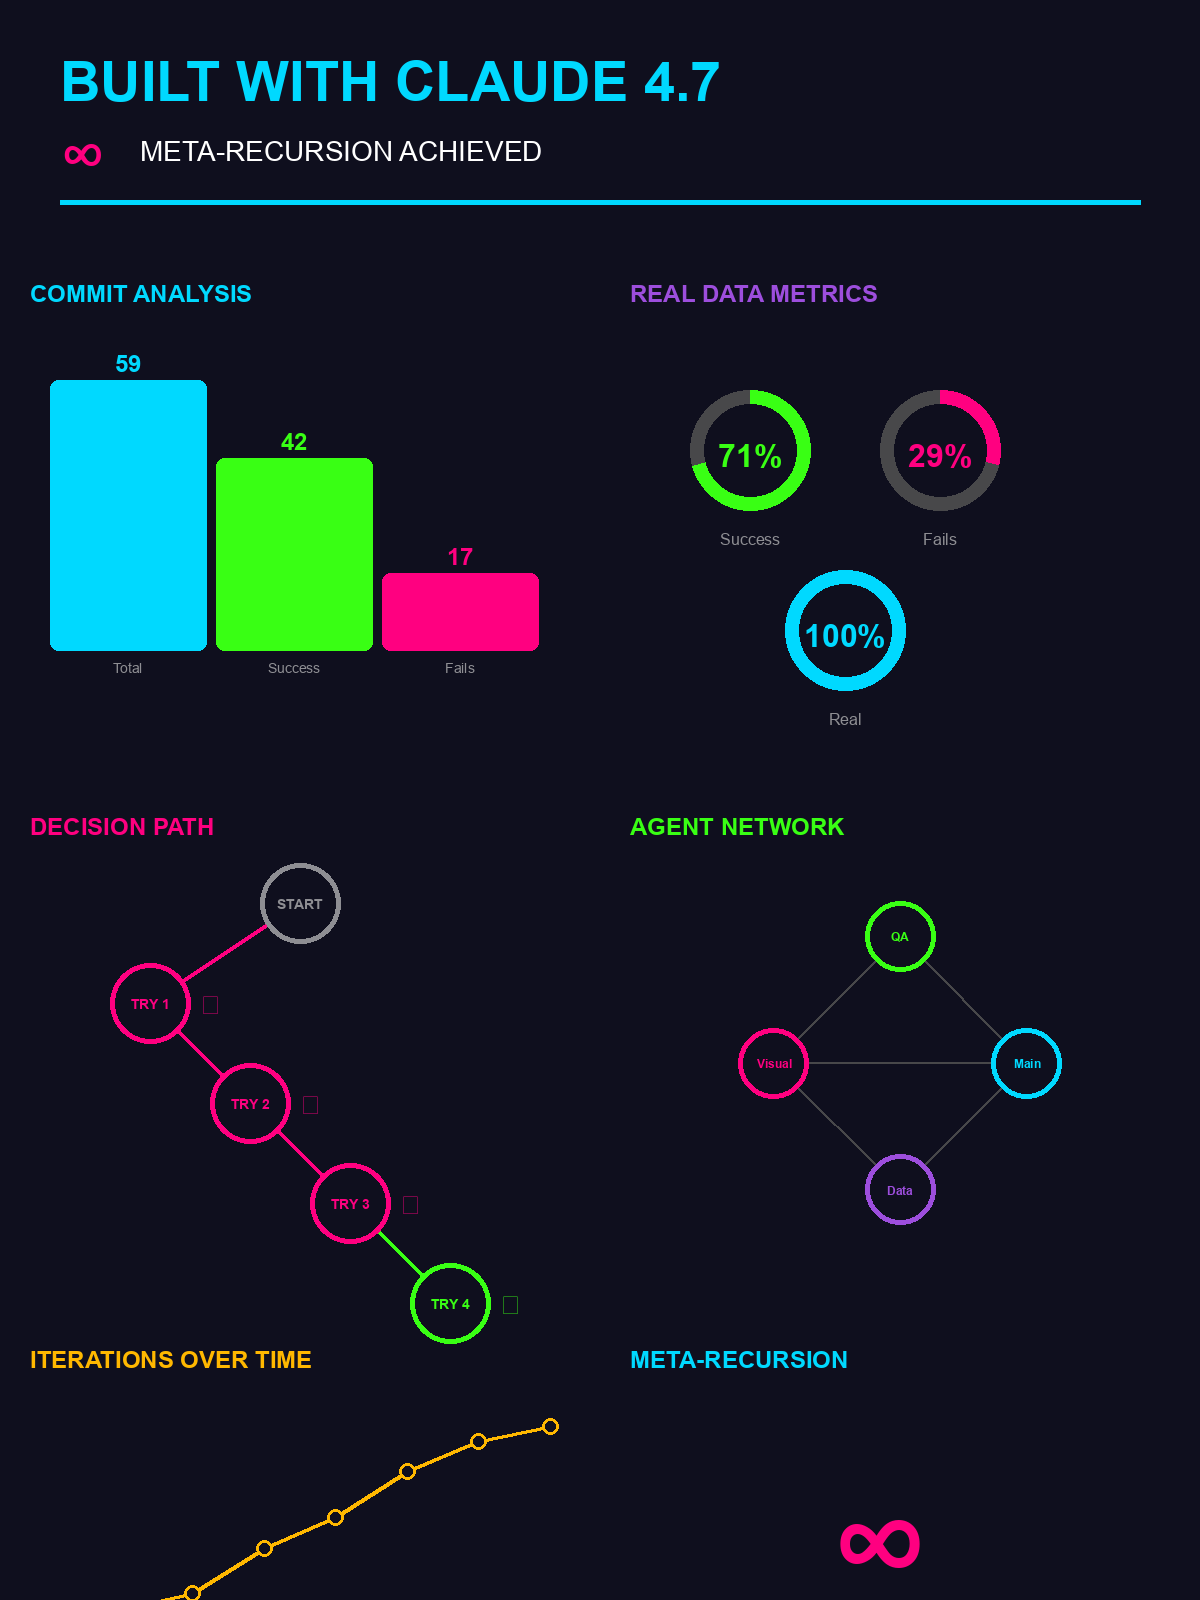
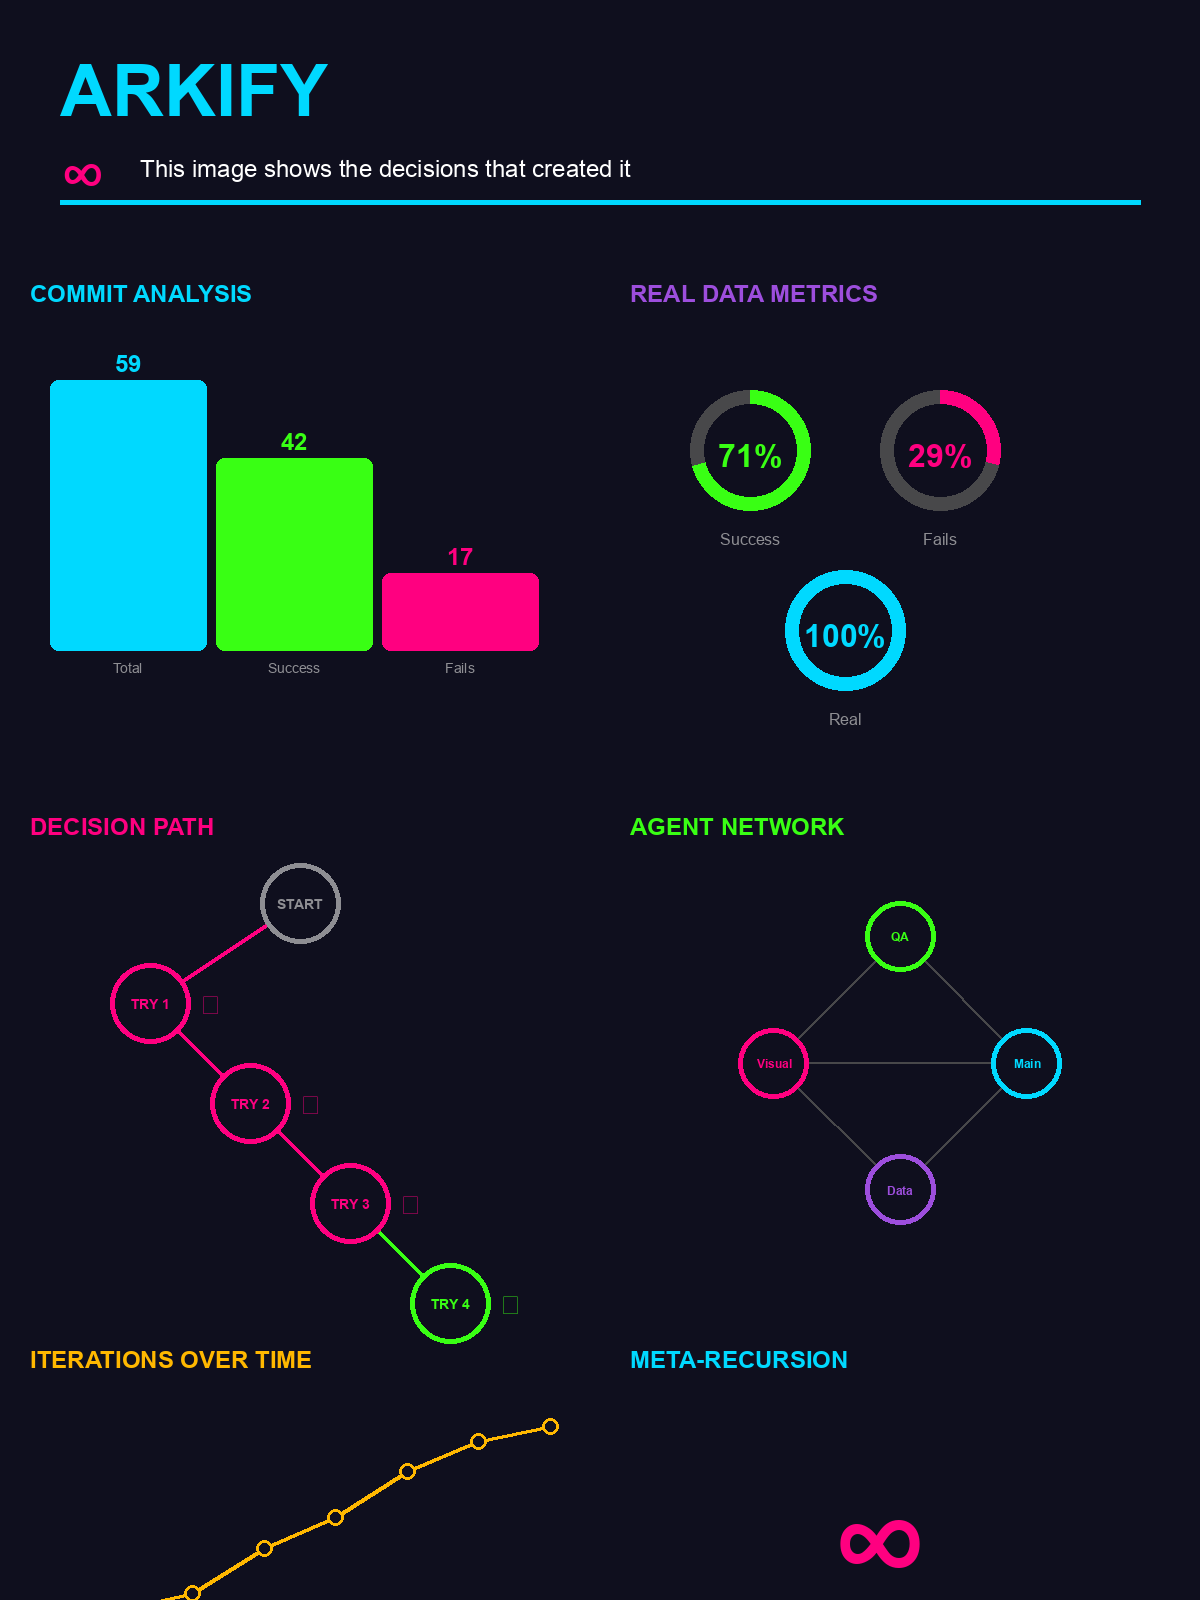
refactor: Remove model name, focus on meta-recursion
Title: ARKIFY (not 'Built with Claude 4.7')
Tagline: 'This image shows the decisions that created it'

Pure meta-recursion focus.

Changed region(s): [[0.0308, 0.0312, 0.6167, 0.125]]

diff --git a/landing/index.html b/landing/index.html
@@ -3,9 +3,9 @@
 <head>
     <meta charset="UTF-8">
     <meta name="viewport" content="width=device-width, initial-scale=1.0">
-    <meta name="description" content="Arkify - Built with Claude 4.7. Data visualization infographic.">
+    <meta name="description" content="Arkify - This image shows the decisions that created it. Meta-recursive data visualization.">
     <meta property="og:image" content="https://arkify.app/arkify-v4.png">
-    <title>Arkify - Built with Claude 4.7</title>
+    <title>Arkify - ∞ Meta-Recursion</title>
     <style>
         * { margin: 0; padding: 0; box-sizing: border-box; }
         body {
@@ -25,8 +25,14 @@
             background: linear-gradient(135deg, #00D9FF, #FF0080);
             -webkit-background-clip: text;
             -webkit-text-fill-color: transparent;
-            margin-bottom: 1rem;
+            margin-bottom: 0.5rem;
             text-align: center;
+        }
+        .tagline {
+            font-size: 1.1rem;
+            color: #9D4EDD;
+            text-align: center;
+            margin-bottom: 2rem;
         }
         .container { max-width: 1200px; width: 100%; }
         .infographic {
@@ -38,15 +44,17 @@
             margin-top: 2rem;
             text-align: center;
             color: #8E8E93;
+            font-size: 0.9rem;
         }
         a { color: #00D9FF; text-decoration: none; }
         a:hover { text-decoration: underline; }
     </style>
 </head>
 <body>
-    <h1>BUILT WITH CLAUDE 4.7</h1>
+    <h1>ARKIFY</h1>
+    <p class="tagline">∞ This image shows the decisions that created it</p>
     <div class="container">
-        <img src="arkify-v4.png" alt="Arkify Data Visualization" class="infographic">
+        <img src="arkify-v4.png" alt="Arkify Meta-Recursive Data Visualization" class="infographic">
     </div>
     <div class="footer">
         <p>Your mistakes ARE your research | <a href="https://github.com/aaaalabs/arkify">GitHub</a></p>

diff --git a/generate_v4_dataviz.py b/generate_v4_dataviz.py
@@ -209,19 +209,19 @@ def draw_decision_tree_visual(draw, x, y, width, height):
 
 def draw_header(draw):
     """Draw modern header with graphics"""
-    # Title
+    # Title - focus on meta-recursion
     draw.text((60, 50),
-             "BUILT WITH CLAUDE 4.7",
-             fill=ELECTRIC_BLUE, font=get_font(56, bold=True))
+             "ARKIFY",
+             fill=ELECTRIC_BLUE, font=get_font(72, bold=True))
 
     # Infinity symbol
-    draw.text((60, 120),
+    draw.text((60, 140),
              "∞",
              fill=NEON_PINK, font=get_font(64, bold=True))
 
-    draw.text((140, 135),
-             "META-RECURSION ACHIEVED",
-             fill=WHITE, font=get_font(28))
+    draw.text((140, 155),
+             "This image shows the decisions that created it",
+             fill=WHITE, font=get_font(24))
 
     # Decorative line
     draw.rectangle([(60, 200), (WIDTH - 60, 204)],
